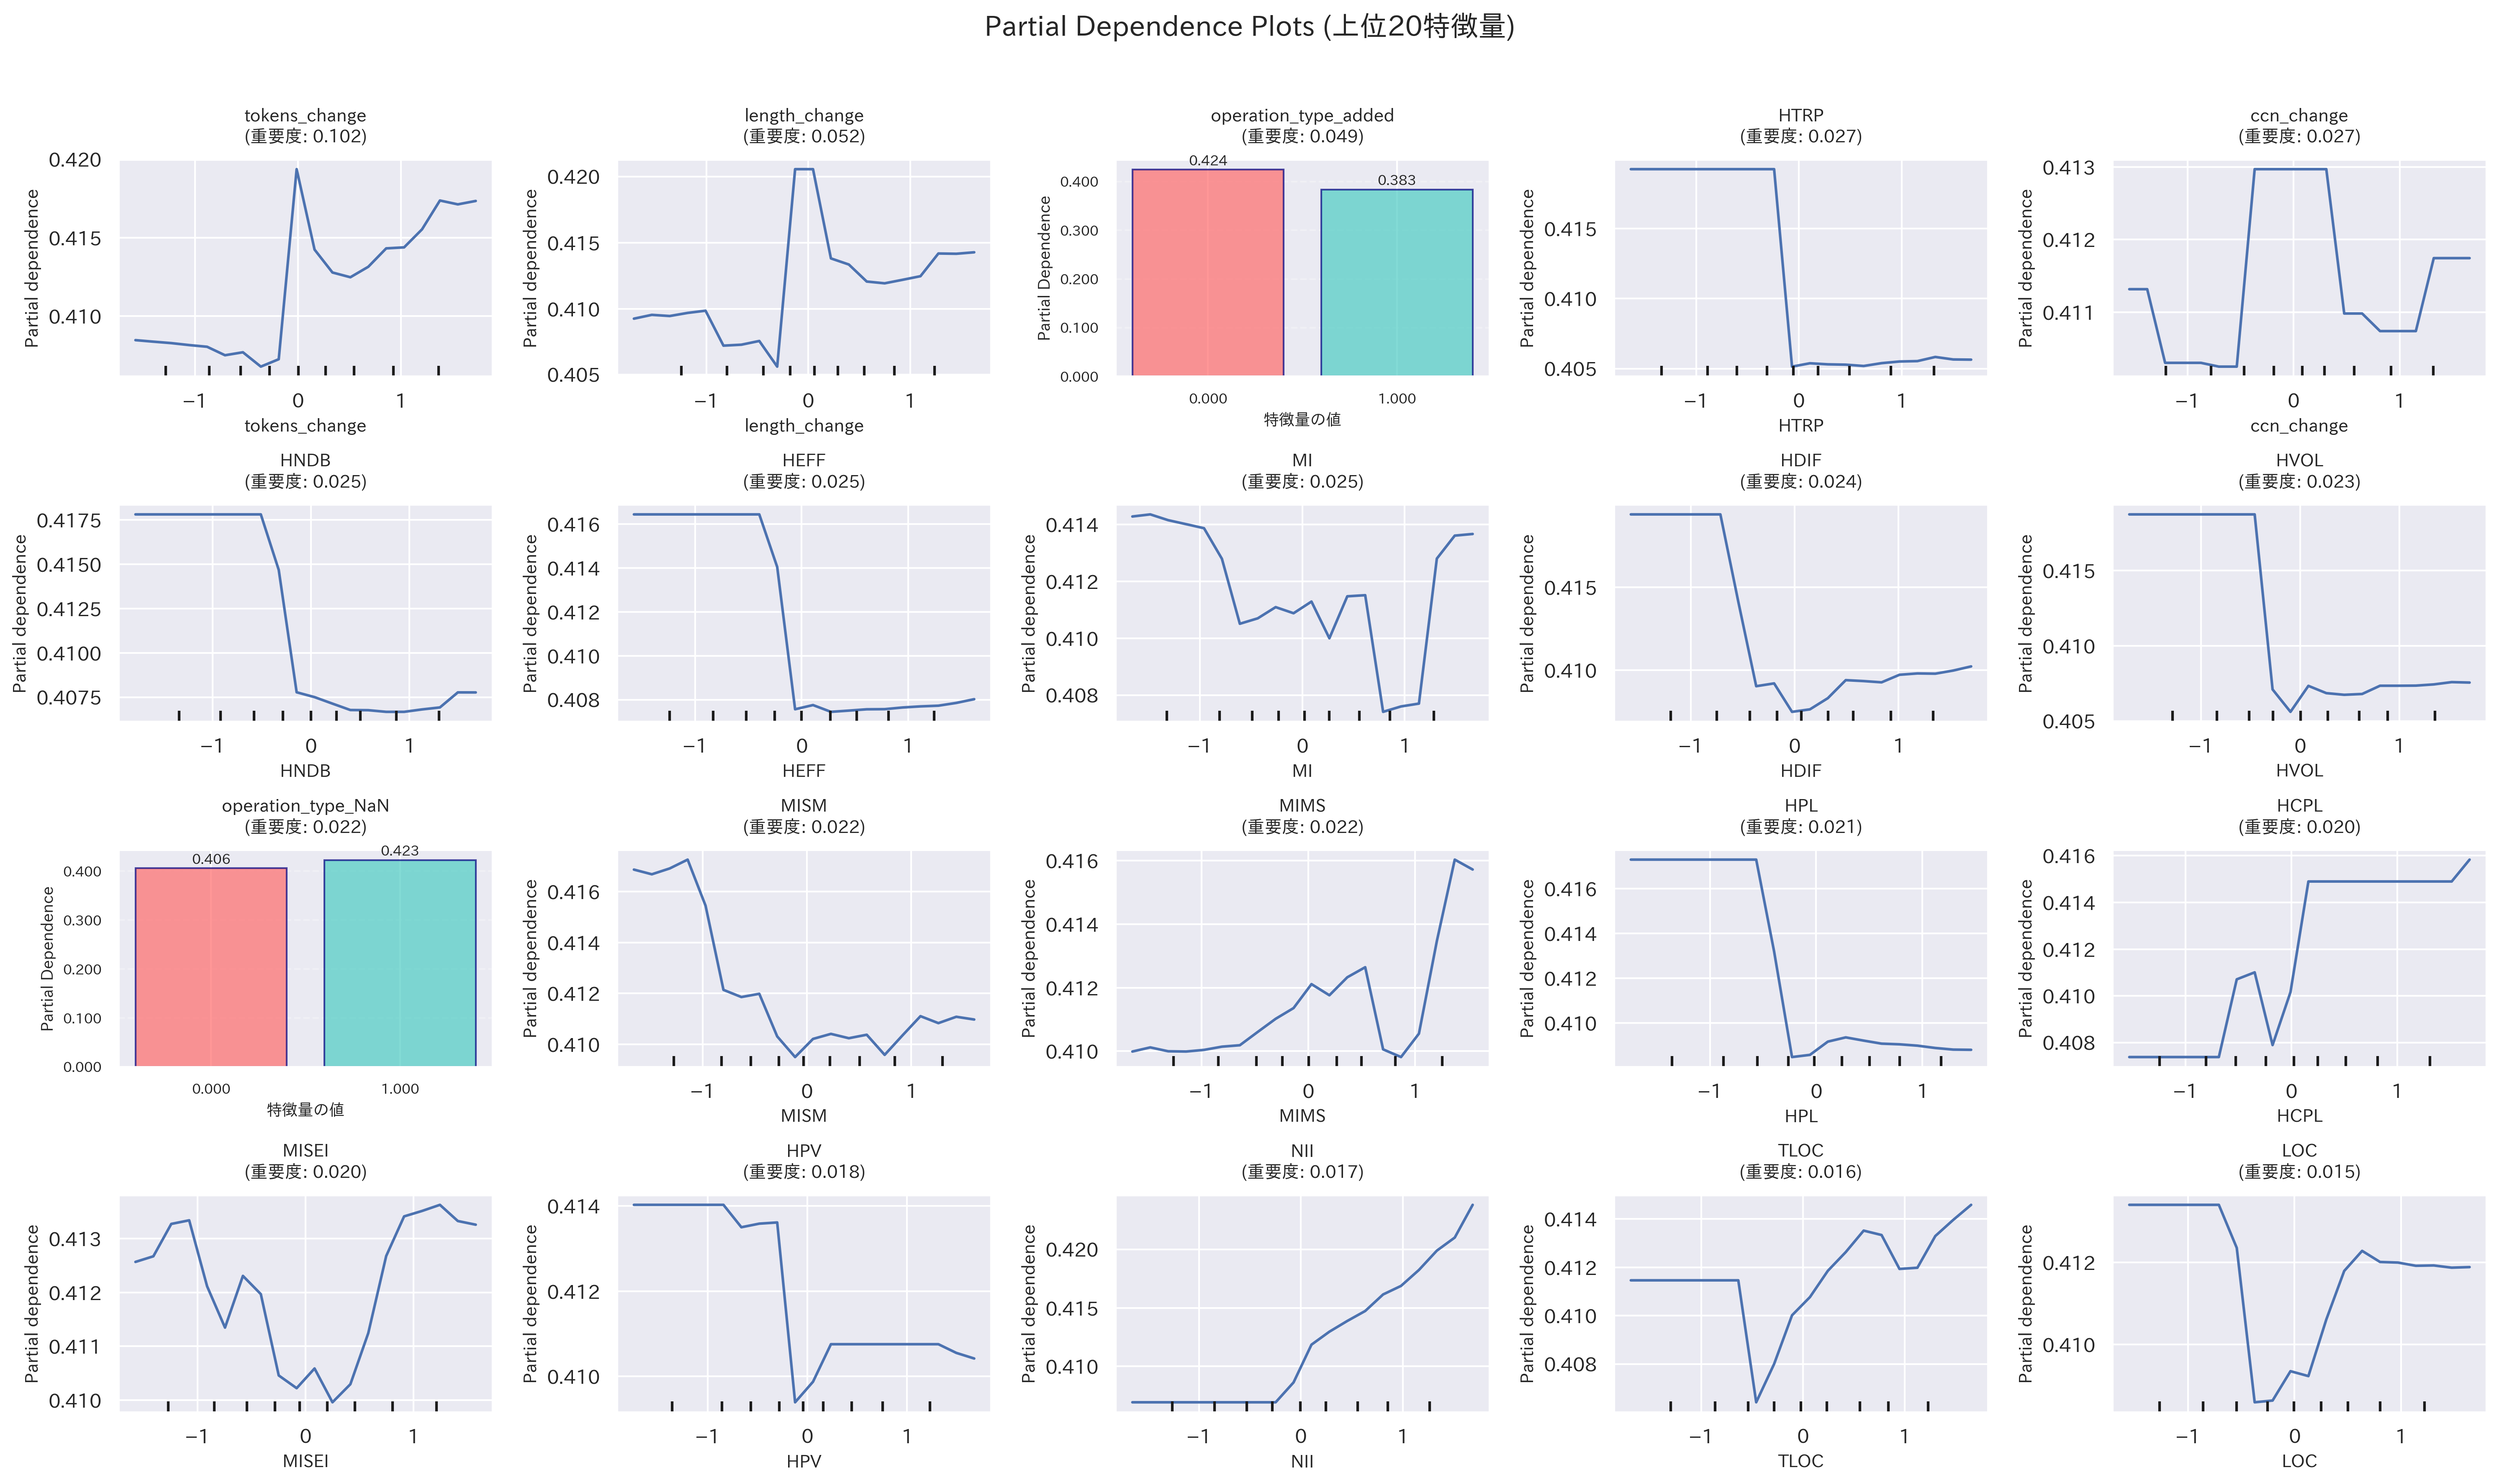
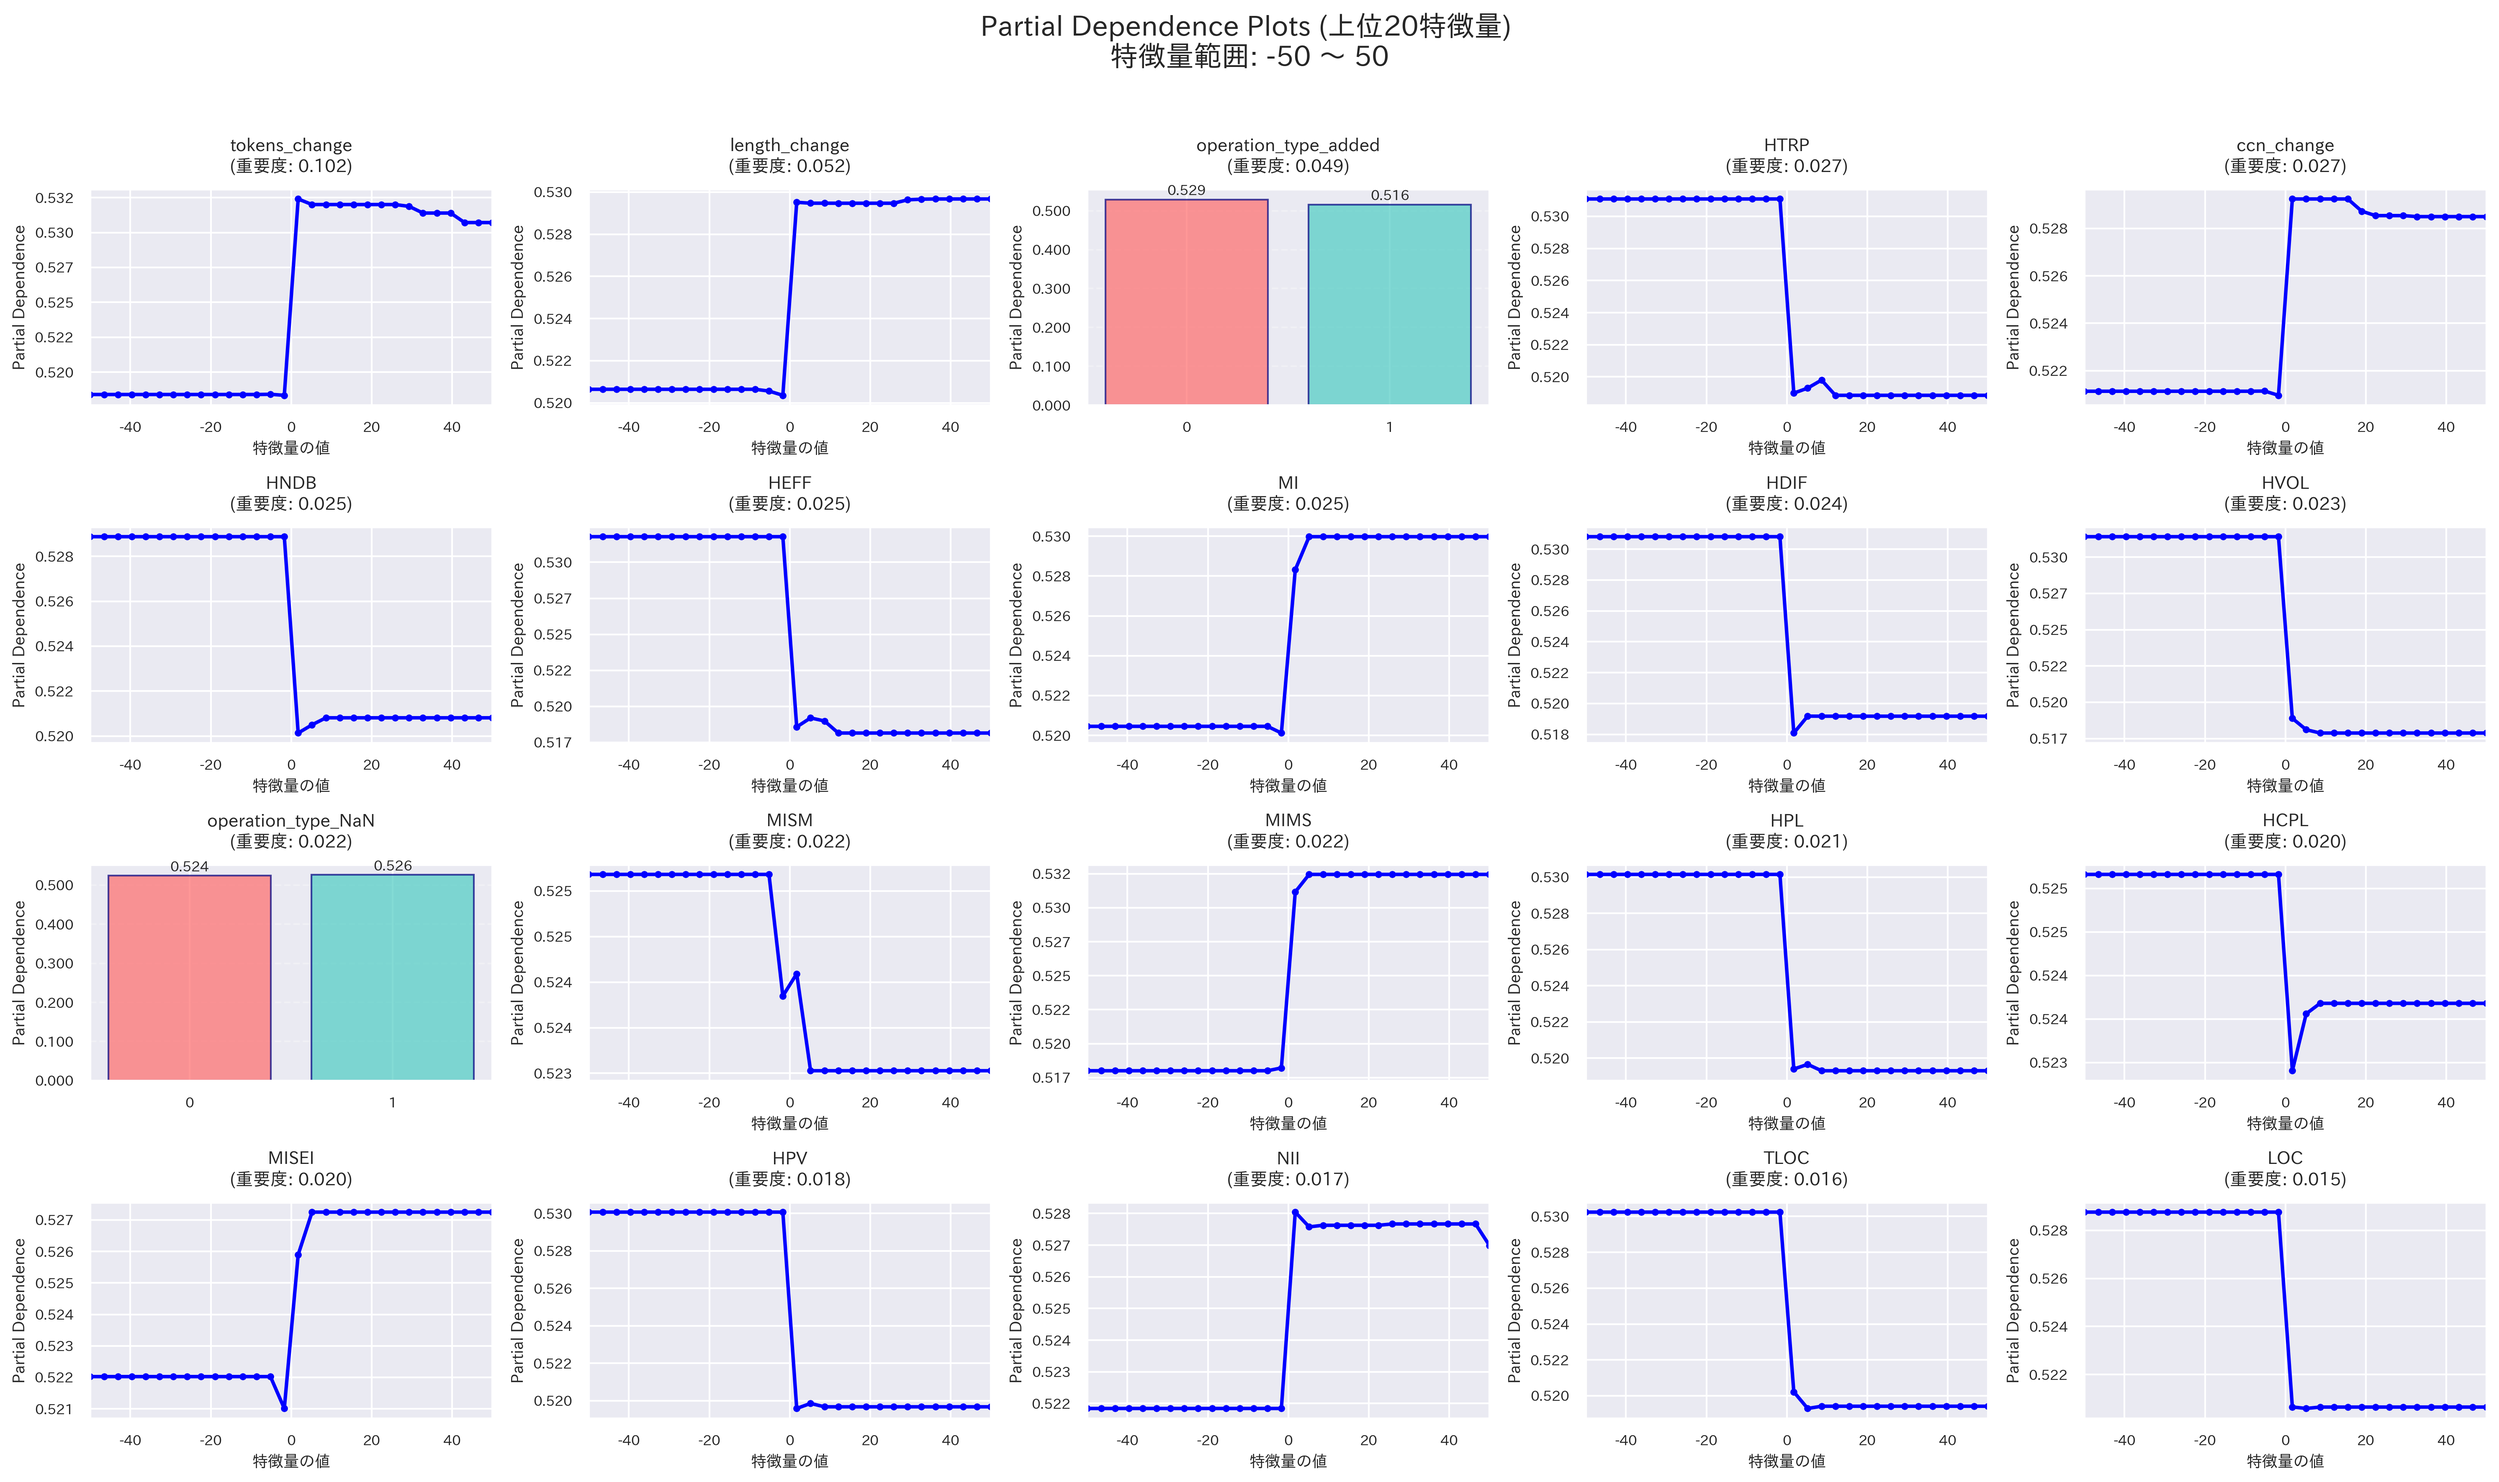
特徴量の値を正規化しない

diff --git a/remove/elasticsearch/analyzer.py b/remove/elasticsearch/analyzer.py
@@ -472,7 +472,8 @@ class BugHunterAnalyzer:
     def _plot_partial_dependence_plots(self, top_features: List[str], model, selected_features: List[str], save_path: str):
         """実際のPartial Dependence Plotsを描画"""
         try:
-            # 訓練データがない場合の代替データ生成
+            # 実データベースのサンプルデータから特徴量の値範囲を取得する必要があるが、
+            # ここでは-50から50の範囲を使用してサンプルデータを生成
             print("Partial Dependence Plot用のサンプルデータを生成中...")
 
             # 選択された特徴量の代表的な値範囲を作成
@@ -481,14 +482,14 @@ class BugHunterAnalyzer:
 
             for feature in selected_features:
                 if feature.startswith('LongName_tfidf_') or feature.startswith('Parent_tfidf_'):
-                    # TF-IDF特徴量: 0-1の範囲でランダム値
-                    sample_data[feature] = np.random.random(n_samples) * 0.5
+                    # TF-IDF特徴量: -50から50の範囲
+                    sample_data[feature] = np.random.uniform(-50, 50, n_samples)
                 elif feature.startswith('operation_type_'):
-                    # One-Hot特徴量: 0と1の両方の値を確実に含める
+                    # One-Hot特徴量: 0と1のみ
                     sample_data[feature] = np.random.choice([0, 1], n_samples, p=[0.7, 0.3])
                 else:
-                    # 数値特徴量: 標準正規分布
-                    sample_data[feature] = np.random.normal(0, 1, n_samples)
+                    # 数値特徴量: -50から50の範囲
+                    sample_data[feature] = np.random.uniform(-50, 50, n_samples)
 
             # DataFrameを作成
             X_sample = pd.DataFrame(sample_data)
@@ -536,18 +537,26 @@ class BugHunterAnalyzer:
                     if feature_name.startswith('operation_type_'):
                         self._plot_operation_type_pdp(ax, feature_name, feature_idx, X_sample, model)
                     else:
-                        # 通常のPDP描画
+                        # 通常のPDP描画 - -50から50の範囲でPDPを計算
                         try:
-                            display = PartialDependenceDisplay.from_estimator(
-                                model,
-                                X_sample,
-                                features=[feature_idx],
-                                ax=ax,
-                                random_state=42,
-                                grid_resolution=20
-                            )
+                            # -50から50の範囲でグリッドを作成
+                            grid_values = np.linspace(-50, 50, 30)
+
+                            # 手動でPDPを計算
+                            pdp_values = []
+                            for grid_val in grid_values:
+                                X_temp = X_sample.copy()
+                                X_temp.iloc[:, feature_idx] = grid_val
+                                predictions = model.predict_proba(X_temp)[:, 1]
+                                pdp_values.append(np.mean(predictions))
+
+                            # 線グラフで描画
+                            ax.plot(grid_values, pdp_values, 'o-', color='blue', linewidth=2, markersize=3)
+                            ax.set_xlabel('特徴量の値', fontsize=9)
+                            ax.set_xlim(-50, 50)  # X軸の範囲を明示的に設定
+
                         except Exception as pdp_error:
-                            print(f"PDP標準機能でエラー: {pdp_error}")
+                            print(f"PDP手動計算でエラー: {pdp_error}")
                             self._plot_manual_pdp_simple(ax, feature_name, feature_idx, X_sample, model)
 
                     # タイトルを設定（特徴量名を短縮）
@@ -560,11 +569,10 @@ class BugHunterAnalyzer:
 
                     # 軸ラベルのフォントサイズを調整
                     ax.tick_params(axis='both', which='major', labelsize=8)
-                    ax.set_xlabel('特徴量の値', fontsize=9)
                     ax.set_ylabel('Partial Dependence', fontsize=9)
 
-                    # 軸の目盛りを小数点第3位まで表示
-                    ax.xaxis.set_major_formatter(plt.FuncFormatter(lambda x, p: f'{x:.3f}'))
+                    # 軸の目盛りを適切にフォーマット
+                    ax.xaxis.set_major_formatter(plt.FuncFormatter(lambda x, p: f'{x:.0f}'))
                     ax.yaxis.set_major_formatter(plt.FuncFormatter(lambda x, p: f'{x:.3f}'))
 
                 except Exception as e:
@@ -579,7 +587,7 @@ class BugHunterAnalyzer:
                 axes[row, col].set_visible(False)
 
             # メインタイトルを追加
-            fig.suptitle(f'Partial Dependence Plots (上位{len(top_features)}特徴量)', fontsize=16, y=0.98)
+            fig.suptitle(f'Partial Dependence Plots (上位{len(top_features)}特徴量) \n特徴量範囲: -50 ～ 50', fontsize=16, y=0.98)
 
             # レイアウトを調整
             plt.tight_layout(rect=[0, 0, 1, 0.96])
